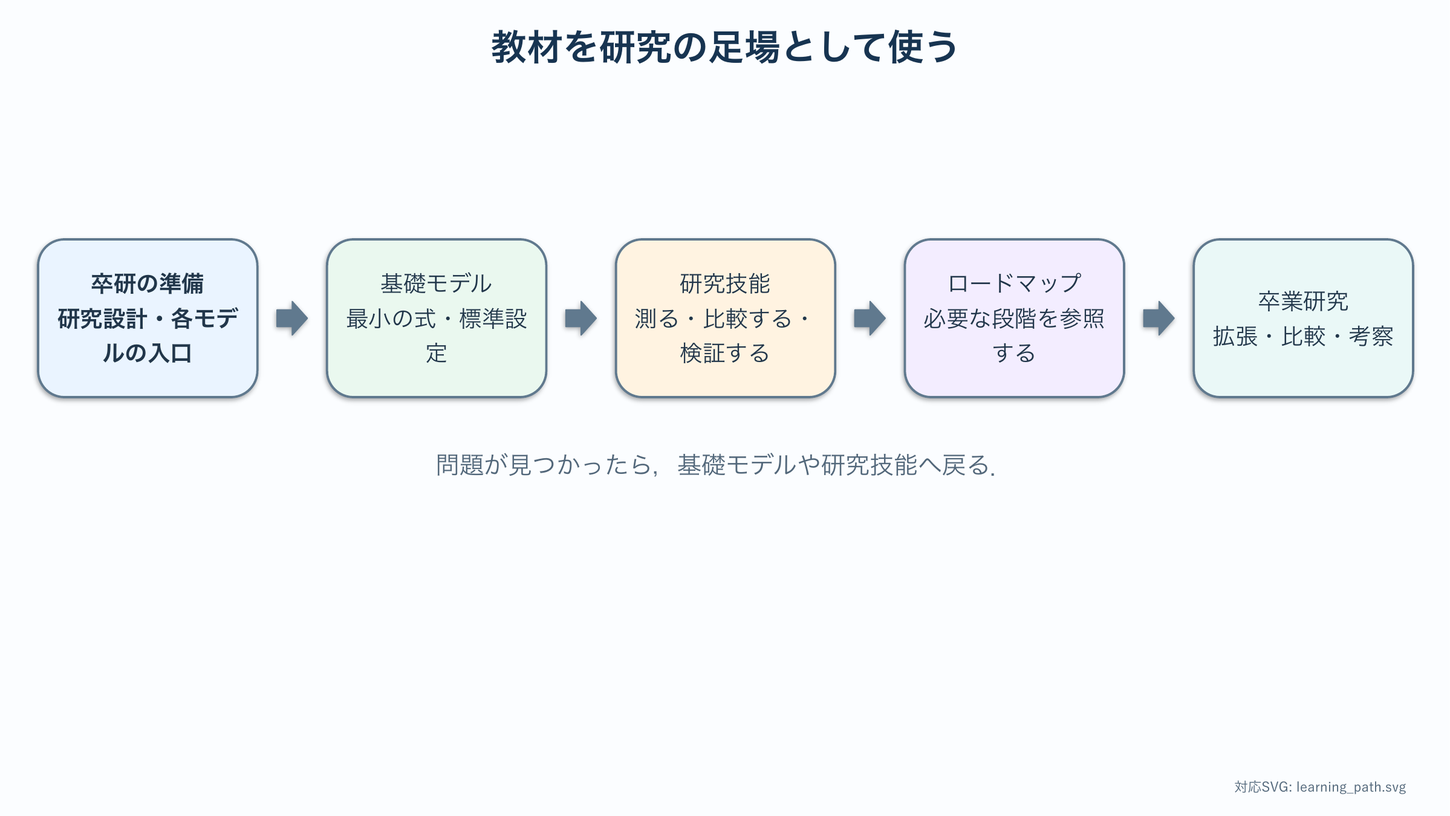
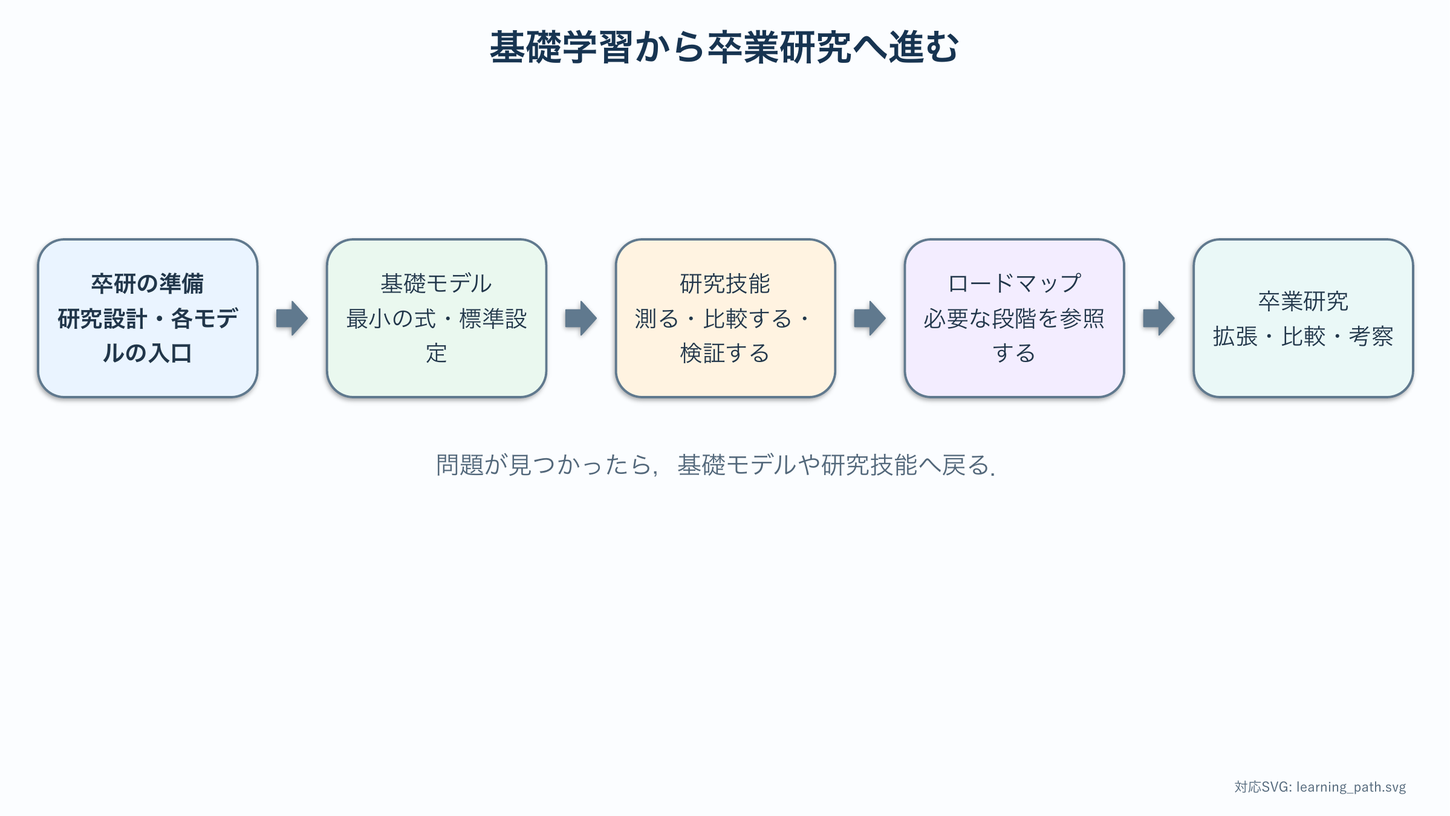
update concept

Changed region(s): [[0.3394, 0.0311, 0.6789, 0.0933]]

diff --git a/scripts/build_concept_diagrams_pptx.py b/scripts/build_concept_diagrams_pptx.py
@@ -232,7 +232,7 @@ def cover(prs: Presentation) -> None:
 
 
 def learning_path(prs: Presentation) -> None:
-    slide = base_slide(prs, "教材を研究の足場として使う", "learning_path.svg")
+    slide = base_slide(prs, "基礎学習から卒業研究へ進む", "learning_path.svg")
     pipeline(slide, [
         ("卒研の準備", "研究設計・各モデルの入口"),
         ("基礎モデル", "最小の式・標準設定"),

diff --git a/README.md b/README.md
@@ -1,8 +1,8 @@
 # 卒業研究準備セミナー：数理モデリングとシミュレーション
 
-情報数理学科4年生向けの卒業研究準備教材です．学生は Strogatz『Nonlinear Dynamics and Chaos』を輪講し，常微分方程式・線形安定性・固有値・相図の基礎を学んでいる一方，偏微分方程式（PDE）は未履修であることを想定しています．
+情報数理学科4年生向けの卒業研究準備教材です．Strogatz『Nonlinear Dynamics and Chaos』の輪講を通して，常微分方程式・線形安定性・固有値・相図の基礎を学び，ここから偏微分方程式（PDE）の基礎へ進みます．
 
-本教材の目的は，卒業研究の完成例を先に与えることではありません．基礎モデルを理解し，単純な例で数値計算と評価方法を練習した後，研究の中心となる問い・モデルの拡張・比較実験・検証は学生自身が行います．
+基礎モデルを理解し，単純な例で数値計算と評価方法を練習した後，研究の問いを具体化し，モデルの拡張，比較実験，検証へ進みます．
 
 ## ファイル番号の規則
 
@@ -15,17 +15,17 @@
 | `40`～`43` | 関係モデルとネットワーク |
 | `50` | 4テーマの総括 |
 
-各テーマでは，末尾 `0` を準備，`1` を基礎モデル，`2` を研究技能，`3` を卒研ロードマップに対応させます．NotebookとNotebook出力図は対応する学生向け章の番号，教員用ゴールは各テーマのロードマップ番号にそろえています．
+各テーマでは，末尾 `0` を準備，`1` を基礎モデル，`2` を研究技能，`3` を卒研ロードマップに対応させます．NotebookとNotebook出力図も対応する章の番号にそろえています．
 
 ## 構成方針
 
 各テーマを次の3段階に分けています．
 
 1. **基礎モデル**：教科書的な最小モデルを理解し，標準設定で再現する．
-2. **研究技能の練習**：卒研対象そのものではなく，単純・汎用的な例で必要な技法を身につける．
-3. **卒研ロードマップ**：学生が自分で決める事項，確認点，段階的な到達目標を示す．最終結果や一意の正解は示さない．
+2. **研究技能の練習**：単純・汎用的な例で必要な技法を検証し，卒研対象へ適用する準備を整える．
+3. **卒研ロードマップ**：研究の問い，比較条件，評価指標を具体化し，段階ごとの確認点を通過する．
 
-教材中のNotebookは，基礎と技能練習までは実行可能な形で用意しています．卒研ロードマップでは完成コードを配布せず，学生がそれまでのNotebookを複製・改造して研究用Notebookへ育てます．
+基礎章と研究技能章のNotebookを実行し，卒研ロードマップではそれまでのNotebookを複製・改造して研究用Notebookへ育てます．
 
 ## 卒研の準備
 
@@ -47,7 +47,7 @@
 2. [単一薄板の2次元温度場](chapters/12_stegosaurus_heat_shape.md)
 3. [卒研ロードマップ：形状比較を研究にする](chapters/13_stegosaurus_research_roadmap.md)
 
-教材では1つの単純形状までを扱います．複数形状の定義，公平な正規化，形状ごとの温度分布・放熱効率比較は学生自身の卒業研究として残します．
+1つの単純形状で熱計算を検証した後，複数形状の定義，公平な正規化，形状ごとの温度分布・放熱効率比較へ進みます．
 
 ### ヘビ模様と反応拡散
 
@@ -55,7 +55,7 @@
 2. [模様を数値で測る基礎](chapters/22_reaction_diffusion_snake.md)
 3. [卒研ロードマップ：生成模様と実画像を比較する](chapters/23_snake_research_roadmap.md)
 
-教材では反応拡散の実行と，汎用的な模様画像から特徴量を測るところまでを扱います．ヘビ画像の収集，特徴量の選択，損失関数，パラメータ探索は学生自身が設計します．
+反応拡散の実行と汎用的な模様画像による特徴量の検証を終えた後，ヘビ画像の収集，特徴量の選択，損失関数，パラメータ探索へ進みます．
 
 ### 電車乗降とマルチエージェント
 
@@ -63,7 +63,7 @@
 2. [確率的シミュレーションの検証](chapters/32_agent_boarding_behavior.md)
 3. [卒研ロードマップ：行動ルールを比較する](chapters/33_boarding_research_roadmap.md)
 
-教材では基準モデルと，乱数seed・反復実験・ばらつきの扱いまでを学びます．ドア付近の行動分類，代替ルール，実測動画との比較は学生自身が研究します．
+基準モデルと乱数seed・反復実験・ばらつきの扱いを学んだ後，ドア付近の行動分類，代替ルール，実測動画との比較へ進みます．
 
 ### 恋愛モデルとネットワーク
 
@@ -71,19 +71,17 @@
 2. [一般的な3頂点ネットワーク力学](chapters/42_love_dynamics_network.md)
 3. [卒研ロードマップ：物語の関係変化をモデル化する](chapters/43_love_research_roadmap.md)
 
-教材では既習の2変数ODEと，一般的なネットワーク結合の読み方までを扱います．作品の選定，感情の定義，アノテーション，第三者効果，パラメータ推定は学生自身が決めます．
+既習の2変数ODEと一般的なネットワーク結合を確認した後，作品の選定，感情の定義，アノテーション，第三者効果，パラメータ推定へ進みます．
 
 ## 学習の進め方
 
-基礎・研究技能の各章は，本文の読解，Notebook図の読み取り，短い演習，チェックポイントの順に学ぶ構成です．各章冒頭に置く学習ガイドには，学習内容と到達確認を示しています．卒研ロードマップと最後の振り返りも含め，学生が研究中に繰り返し参照するガイドです．
-
-教員はセミナー時間に応じて演習数を減らせますが，次の順序は保ちます．
+基礎・研究技能の各章は，本文の読解，Notebook図の読み取り，短い演習，チェックポイントの順に進みます．各章冒頭の学習ガイドで，学習内容と到達確認を確認します．卒研ロードマップと最後の振り返りは，研究中に繰り返し参照します．
 
 ```text
 予想する → 式を読む → 図を読む → 数値を検証する → 自分の言葉で説明する
 ```
 
-Notebookの図は章本文にも掲載し，軸，色，曲線，読み取れること，誤読しやすい点を解説しています．学生はNotebookを手元で実行できない場合でも，本文だけで図の意味を追えます．
+Notebookの図は章本文にも掲載し，軸，色，曲線，読み取れること，誤読しやすい点を解説しています．Notebookを手元で実行できない場合も，本文から図の意味を確認できます．
 
 概念図の編集用元データは，[concept_diagrams_editable.pptx](assets/figures/concepts/concept_diagrams_editable.pptx)にまとめています．文字，箱，矢印，格子点などはPowerPoint上で個別に編集できます．再生成方法は[概念図README](assets/figures/concepts/README.md)を参照してください．
 
@@ -129,4 +127,4 @@ HTMLは `_build/html` に出力されます．
 
 ## 科学的な位置づけ
 
-各モデルは，考え方と検証手順を学ぶための教育用最小モデルです．ステゴサウルス背板の機能，動物模様の成因，実際の鉄道運用，実在人物の関係を断定・評価するものではありません．仮定，無視した要因，適用範囲を明示することも学習目標に含みます．
+各モデルは，考え方と検証手順を明確にするために単純化した最小モデルです．ステゴサウルス背板の機能，動物模様の成因，実際の鉄道運用，実在人物の関係を断定・評価するものではありません．仮定，無視した要因，適用範囲を必ず明示します．

diff --git a/chapters/index.md b/chapters/index.md
@@ -21,14 +21,14 @@ title: はじめに
   ↓
 卒研ロードマップを自分の言葉で具体化する
   ↓
-研究者自身がモデルを拡張し，比較・検証・考察する
+自分の問いに合わせてモデルを拡張し，比較・検証・考察する
 ```
 
-![教材から学生自身の卒業研究へ進む学習経路．](../assets/figures/concepts/learning_path.png)
+![基礎学習から自分の卒業研究へ進む学習経路．](../assets/figures/concepts/learning_path.png)
 
 矢印は一方通行ではない．ロードマップ以降で問題が見つかったら，基礎モデルや研究技能へ戻って条件を確認する．
 
-基礎・研究技能の各章は，説明の読解，Notebook図の読み取り，演習，チェックポイントを学ぶ構成である．卒研ロードマップと最後の振り返りには時間制限を設けない．学生が研究中に必要な段階を参照し，自分のペースで記録を更新する．
+基礎・研究技能の各章では，説明を読み，Notebook図を解釈し，演習とチェックポイントへ進む．卒研ロードマップと最後の振り返りには時間制限を設けない．研究中に必要な段階を参照し，自分のペースで記録を更新する．
 
 図は単に結果を眺めるためのものではない．各章では，軸・色・線の意味，最初に確認する場所，数理モデルとの対応，誤読しやすい点を説明する．Notebookを実行した場合も，表示された図を本文の順序で読み，自分の言葉で説明する．
 
@@ -44,7 +44,7 @@ title: はじめに
 
 ## 学習経路
 
-| テーマ | 基礎モデル | 研究技能の練習 | 学生が進める卒研ロードマップ |
+| テーマ | 基礎モデル | 研究技能の練習 | 卒研ロードマップ |
 | --- | --- | --- | --- |
 | 放熱 | [熱方程式と1次元フィン](./11_stegosaurus_heat_basic.md) | [単一薄板の2次元温度場](./12_stegosaurus_heat_shape.md) | [形状比較を研究にする](./13_stegosaurus_research_roadmap.md) |
 | 模様 | [反応拡散とパターン生成](./21_reaction_diffusion_basic.md) | [模様を数値で測る](./22_reaction_diffusion_snake.md) | [生成模様と実画像を比較する](./23_snake_research_roadmap.md) |
@@ -66,8 +66,8 @@ title: はじめに
 
 ## 最後の振り返り
 
-各自の研究計画ができたら，[4つのモデルを卒業研究へ移す](./50_synthesis.md)を使い，他テーマの比較条件・特徴量・反復実験・結合構造から借りられる考え方を確認する．
+研究計画ができたら，[4つのモデルを卒業研究へ移す](./50_synthesis.md)を使い，他テーマの比較条件・特徴量・反復実験・結合構造から借りられる考え方を確認する．
 
 :::{important} 科学的な扱いについて
-本教材のモデルはいずれも教育用の簡略モデルである．ステゴサウルス背板の機能，動物模様の成因，鉄道運用，実在人物の関係などを断定するものではない．仮定と適用範囲を必ず確認すること．
+本教材のモデルはいずれも，考え方と検証手順を明確にするために単純化している．ステゴサウルス背板の機能，動物模様の成因，鉄道運用，実在人物の関係などを断定するものではない．仮定と適用範囲を必ず確認すること．
 :::

diff --git a/chapters/22_reaction_diffusion_snake.md b/chapters/22_reaction_diffusion_snake.md
@@ -9,7 +9,7 @@ title: 模様解析の基礎：画像を数値で測る
 :::
 
 :::{note} 学習経路での位置づけ
-本章では研究技能を練習する．ヘビ写真と反応拡散パターンの適合はまだ行わない．人工的な斑点・縞画像を使い，{abbr}`二値化(画素を閾値によって前景と背景の2値へ分ける処理)`，{abbr}`面積比(画像全体に占める前景画素の割合)`，{abbr}`連結成分数(隣接してつながる前景領域の個数)`，{abbr}`特徴波長(模様で支配的に繰り返される空間間隔)`を1つずつ測る．
+本章では，人工的な斑点・縞画像を使い，{abbr}`二値化(画素を閾値によって前景と背景の2値へ分ける処理)`，{abbr}`面積比(画像全体に占める前景画素の割合)`，{abbr}`連結成分数(隣接してつながる前景領域の個数)`，{abbr}`特徴波長(模様で支配的に繰り返される空間間隔)`を1つずつ検証する．この検証を終えた後，ヘビ写真と反応拡散パターンの比較へ進む．
 :::
 
 ## この章の目的
@@ -118,7 +118,7 @@ FFTの最大値を機械的に採るだけでは不十分である．
 | 解像度変更 | 物理単位へ換算した波長が保たれるか |
 | ノイズ追加 | 連結成分が過剰に増えないか |
 
-## この章ではまだ行わないこと
+## 卒業研究で発展させる内容
 
 - ヘビ写真の収集・前処理
 - 反応拡散パターンとの類似度計算
@@ -126,7 +126,7 @@ FFTの最大値を機械的に採るだけでは不十分である．
 - $(F,k)$ のパラメータ探索
 - 最も似た模様や最適パラメータの提示
 
-これらは[卒研ロードマップ](./23_snake_research_roadmap.md)で学生が設計する．
+上の項目は，[卒研ロードマップ](./23_snake_research_roadmap.md)に沿って対象画像，特徴量，探索条件を順に具体化する．
 
 ## チェックポイント
 
@@ -146,7 +146,7 @@ FFTの最大値を機械的に採るだけでは不十分である．
 
 ## 次に進む
 
-[卒研ロードマップ：生成模様と実画像を比較する](./23_snake_research_roadmap.md)では，対象画像の選定，前処理，特徴量選択，損失関数，パラメータ探索を小さな段階に分ける．完成した適合結果は示さない．
+[卒研ロードマップ：生成模様と実画像を比較する](./23_snake_research_roadmap.md)へ進み，対象画像の選定，前処理，特徴量選択，損失関数，パラメータ探索を小さな段階に分けて実施する．
 
 ## 参考文献・キーワード
 

diff --git a/chapters/31_agent_boarding_basic.md b/chapters/31_agent_boarding_basic.md
@@ -9,7 +9,7 @@ title: 乗降モデルの基礎：最小セルオートマトン
 :::
 
 :::{note} 学習経路での位置づけ
-本章は乗降テーマの基礎モデルを扱う．[乗降研究の準備](./30_agent_foundations.md)で学んだ状態・近傍・競合解決を，車内とホームを持つ格子へ具体化する．代替行動をすぐに比較せず，次の[確率的シミュレーションの基礎](./32_agent_boarding_behavior.md)で反復とばらつきを扱う．
+本章は乗降テーマの基礎モデルを扱う．[乗降研究の準備](./30_agent_foundations.md)で学んだ状態・近傍・競合解決を，車内とホームを持つ格子へ具体化する．次の[確率的シミュレーションの基礎](./32_agent_boarding_behavior.md)で反復とばらつきを検証してから，代替行動を比較する．
 :::
 
 ## この章の目的
@@ -35,7 +35,7 @@ title: 乗降モデルの基礎：最小セルオートマトン
 駅で電車が停まると，まず客が降り，次に客が乗る．ドア付近が混むと流れが滞り，停車時間が伸びる．これは多数の人（エージェント）が相互作用する **群集流動** の問題である．
 
 :::{warning} 科学的な注意
-本章のモデルは **教育用の簡略モデル** であり，実際の鉄道事業者の運用・安全基準を評価するものではない．ドア付近の局所的な行動が全体の流れに与える影響を理解するための最小モデルである．
+本章では，ドア付近の局所的な行動が全体の流れに与える影響を調べるため，単純化した最小モデルを使う．このモデルから実際の鉄道事業者の運用・安全基準を評価しない．
 :::
 
 ## 最小モデル
@@ -150,7 +150,7 @@ Notebook では次を行う（seed 固定）．
 - ドア幅・乗降人数を変えた基準計算は，研究用の代替行動を加える前にモデルの性質を把握する予備実験になる．
 - 次の技能章では，行動ルールを加える前に，複数seedによる反復とばらつきの扱いを学ぶ．
 - 連続モデル（社会力モデル {cite}`helbing2010pedestrian`）に置き換えると，より現実的な流れが得られる．CA との比較も研究になる．
-- 具体的な行動分類と比較は[卒研ロードマップ](./33_boarding_research_roadmap.md)から学生自身が進める．
+- 基準モデルを検証した後，[卒研ロードマップ](./33_boarding_research_roadmap.md)を使って具体的な行動分類と比較へ進む．
 
 ## チェックポイント
 

diff --git a/chapters/12_stegosaurus_heat_shape.md b/chapters/12_stegosaurus_heat_shape.md
@@ -9,7 +9,7 @@ title: 放熱の基礎 II：単一薄板の2次元温度場
 :::
 
 :::{note} 学習経路での位置づけ
-本章では研究技能を練習する．ステゴサウルスの複数形状はまだ比較せず，**1枚の長方形薄板**だけを使って，{abbr}`2次元温度場(平面上の各位置に温度が対応する分布)`の計算・可視化・検証を学ぶ．形状比較は次の[卒研ロードマップ](./13_stegosaurus_research_roadmap.md)から学生自身が進める．
+本章では，**1枚の長方形薄板**を使って，{abbr}`2次元温度場(平面上の各位置に温度が対応する分布)`の計算・可視化・検証を学ぶ．この検証を終えた後，[卒研ロードマップ](./13_stegosaurus_research_roadmap.md)で複数形状の比較へ進む．
 :::
 
 ## この章の目的
@@ -154,7 +154,7 @@ $\Delta x$ を小さくしたとき，総放熱量や代表点温度が一定値
 
 曲線比較では一度に $h$ だけを変えている．もし $k$ や厚さも同時に変えれば，曲線差の原因を特定できない．凡例に変更パラメータと結果指標を併記する習慣をつける．
 
-## この章ではまだ行わないこと
+## 卒業研究で発展させる内容
 
 - トゲ，偏平トゲ，三角板，楕円板の形状定義
 - 同体積・同高さ・同投影面積での正規化
@@ -162,7 +162,7 @@ $\Delta x$ を小さくしたとき，総放熱量や代表点温度が一定値
 - 最も放熱に有利な形状の探索
 - 血流や化石形態データの導入
 
-これらは教材の答えではなく，学生が段階的に進める卒業研究の内容である．
+上の項目は，[卒研ロードマップ](./13_stegosaurus_research_roadmap.md)の順序に沿って1つずつ追加し，その都度，計算条件と検証結果を研究ノートへ残す．
 
 ## チェックポイント
 
@@ -184,7 +184,7 @@ $\Delta x$ を小さくしたとき，総放熱量や代表点温度が一定値
 
 ## 次に進む
 
-[卒研ロードマップ：形状比較を研究にする](./13_stegosaurus_research_roadmap.md)では，長方形コードを出発点として，学生自身が形状を1つずつ追加し，比較条件と評価指標を決める手順を示す．完成した形状比較結果や最適形状は示さない．
+[卒研ロードマップ：形状比較を研究にする](./13_stegosaurus_research_roadmap.md)へ進み，長方形コードを出発点として形状を1つずつ追加し，比較条件と評価指標を具体化する．
 
 ## 参考文献・キーワード
 

diff --git a/chapters/32_agent_boarding_behavior.md b/chapters/32_agent_boarding_behavior.md
@@ -9,7 +9,7 @@ title: 確率的シミュレーションの基礎：反復とばらつき
 :::
 
 :::{note} 学習経路での位置づけ
-本章では研究技能を練習する．固定型・横移動型・一時降車型などの行動ルールはまだ比較しない．単純なボトルネック模型を使い，乱数{abbr}`seed(疑似乱数列を再現するための初期値)`，{abbr}`反復実験(同じ条件で乱数だけを変えて複数回実行する実験)`，分布，推定誤差を学ぶ．
+本章では，単純なボトルネック模型を使い，乱数{abbr}`seed(疑似乱数列を再現するための初期値)`，{abbr}`反復実験(同じ条件で乱数だけを変えて複数回実行する実験)`，分布，推定誤差を学ぶ．基準モデルのばらつきを確認した後，固定型・横移動型・一時降車型などの行動ルールの比較へ進む．
 :::
 
 ## この章の目的
@@ -111,7 +111,7 @@ Notebookでは反復を増やしながら累積平均を描く．次を確認す
 
 累積平均が安定して見えても，同じseedを繰り返していないか，seed間が独立か，稀な未完了ケースを見落としていないかを確認する．標準誤差は平均の推定精度であり，個々の実行のばらつきそのものではない．
 
-## この章ではまだ行わないこと
+## 卒業研究で発展させる内容
 
 - ドア付近滞留者の行動分類
 - 固定，横移動，一時降車のルール実装
@@ -119,7 +119,7 @@ Notebookでは反復を増やしながら累積平均を描く．次を確認す
 - 協調者割合の最適化
 - 実測動画への適合
 
-これらは[卒研ロードマップ](./33_boarding_research_roadmap.md)で学生自身が進める．
+上の項目は，[卒研ロードマップ](./33_boarding_research_roadmap.md)に沿って行動の定義，ルール実装，反復比較の順に進める．
 
 ## チェックポイント
 
@@ -139,7 +139,7 @@ Notebookでは反復を増やしながら累積平均を描く．次を確認す
 
 ## 次に進む
 
-[卒研ロードマップ：行動ルールを比較する](./33_boarding_research_roadmap.md)では，観察から行動を定義し，ルールを1つずつ追加し，基準モデルと反復比較する手順を示す．行動別の結果は示さない．
+[卒研ロードマップ：行動ルールを比較する](./33_boarding_research_roadmap.md)へ進み，観察から行動を定義し，ルールを1つずつ追加して基準モデルと反復比較する．
 
 ## 参考文献・キーワード
 

diff --git a/chapters/50_synthesis.md b/chapters/50_synthesis.md
@@ -6,7 +6,7 @@ title: 4つのモデルを卒業研究へ移す
 
 ## このページの目的
 
-各テーマの基礎章と研究技能章を他の学生だけに関係する題材として終わらせず，自分の卒業研究で再利用できる{abbr}`設計原理(異なる研究対象にも再利用できるモデル化や検証の基本方針)`へ変換する．自分のテーマのロードマップを具体化するとき，必要に応じて下の比較表と研究計画シートへ戻る．
+各テーマの基礎章と研究技能章から，自分の卒業研究で再利用できる{abbr}`設計原理(異なる研究対象にも再利用できるモデル化や検証の基本方針)`を取り出す．自分のテーマのロードマップを具体化するとき，必要に応じて下の比較表と研究計画シートへ戻る．
 
 ## このページの使い方
 
@@ -42,7 +42,7 @@ title: 4つのモデルを卒業研究へ移す
 
 ## 自分の卒業研究への転用シート
 
-各自，次を1ページにまとめる．
+次を1ページにまとめる．
 
 | 項目 | 記入する内容 |
 | --- | --- |
@@ -62,6 +62,6 @@ title: 4つのモデルを卒業研究へ移す
 - PDE，エージェント，ネットワークのうち，どの表現が自分の問いに必要か．複雑そうだからではなく，観測したい量から説明できるか．
 - シミュレーションの模様や動画を，どの評価指標へ変換するか．
 - パラメータを変えた効果と，数値刻み・乱数・初期条件の影響を区別できるか．
-- 他の学生の発表から，自分の研究計画を実際に1か所変更したか．
+- 他テーマの発表から得た知見を使い，自分の研究計画を実際に1か所変更したか．
 
 卒業研究の出発点は，大きなモデルではなく，比較可能な最初の図である．4つのテーマから借りた道具を使い，その図を作るための最小モデルを決める．

diff --git a/chapters/21_reaction_diffusion_basic.md b/chapters/21_reaction_diffusion_basic.md
@@ -9,7 +9,7 @@ title: 反応拡散の基礎：パターン生成
 :::
 
 :::{note} 学習経路での位置づけ
-本章は模様テーマの基礎モデルを扱う．[模様研究の準備](./20_pattern_foundations.md)で分けて考えた反応と拡散を，具体的なGray--Scottモデルで組み合わせる．生成模様を実画像へ適合させず，次の[模様解析の基礎](./22_reaction_diffusion_snake.md)で特徴量を個別に検証する．
+本章は模様テーマの基礎モデルを扱う．[模様研究の準備](./20_pattern_foundations.md)で分けて考えた反応と拡散を，具体的なGray--Scottモデルで組み合わせる．次の[模様解析の基礎](./22_reaction_diffusion_snake.md)で特徴量を個別に検証してから，生成模様と実画像を比較する．
 :::
 
 ## この章の目的
@@ -138,7 +138,7 @@ Notebook では次を行う．
 また，外観だけの分類では，斑点と迷路の中間にある模様を再現可能な基準で判定できない．次章では，面積比，連結成分，特徴波長へ変換し，図を数値で読む方法を学ぶ．
 
 :::{note} 評価指標
-縞に見えるという主観的な記述だけで終わらせず，次章で導入する **面積比・斑点数・FFT** につながる量を意識する．本章では標準設定を再現し，少数の設定でパターンが変わることを確認するところまでとする．
+縞に見えるという主観的な記述だけで終わらせず，次章で導入する **面積比・斑点数・FFT** につながる量を意識する．標準設定を再現し，少数の設定でパターンが変わることを確認してから，特徴量による比較へ進む．
 :::
 
 ## 卒業研究への接続
